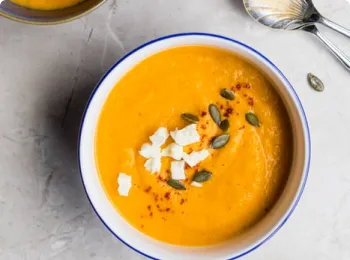
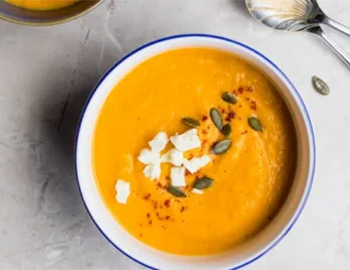
first commit

diff --git a/css/base.css b/css/base.css
@@ -667,6 +667,11 @@ body {
   background: #34c759;
   color: #252525;
 }
+.dishes .card-pic {
+    width: 350px;
+    height: 270px;
+    border-radius: 6px 6px 0 0;
+}
 .card-pic-arrow {
   position: absolute;
   top: 24px;
